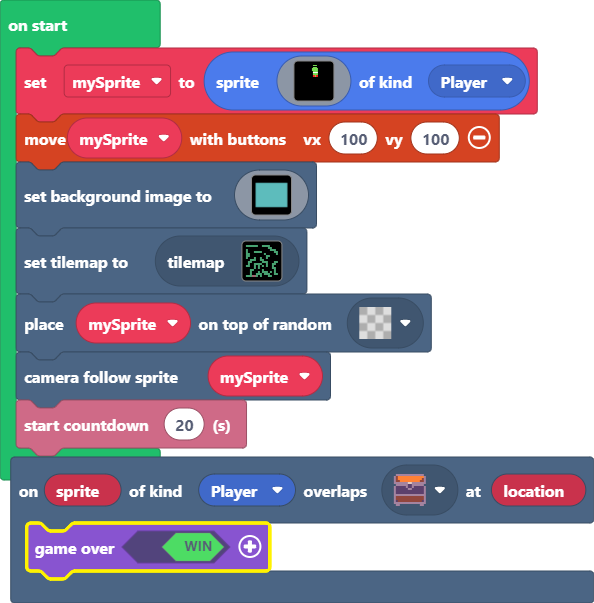
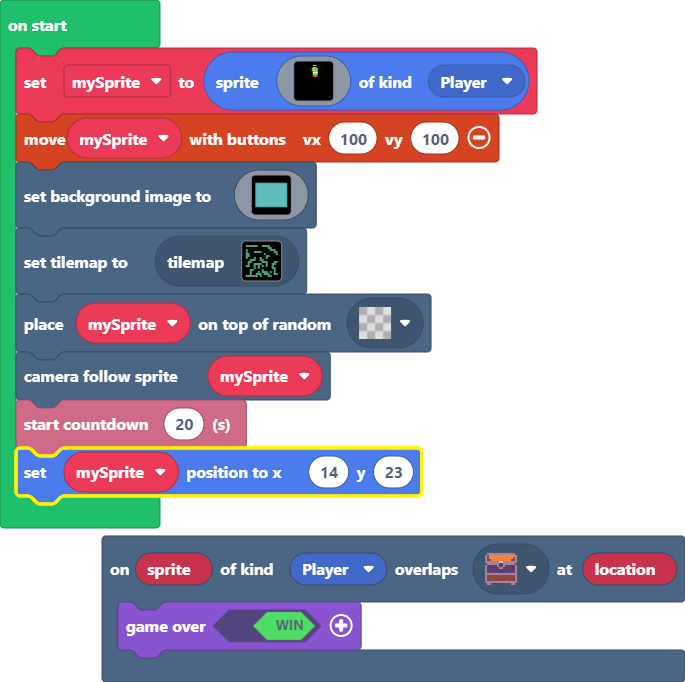
Update main.blocks, main.ts

diff --git a/main.ts b/main.ts
@@ -129,3 +129,4 @@ tiles.setCurrentTilemap(tilemap`level1`)
 tiles.placeOnRandomTile(mySprite, assets.tile`transparency16`)
 scene.cameraFollowSprite(mySprite)
 info.startCountdown(20)
+mySprite.setPosition(14, 23)
